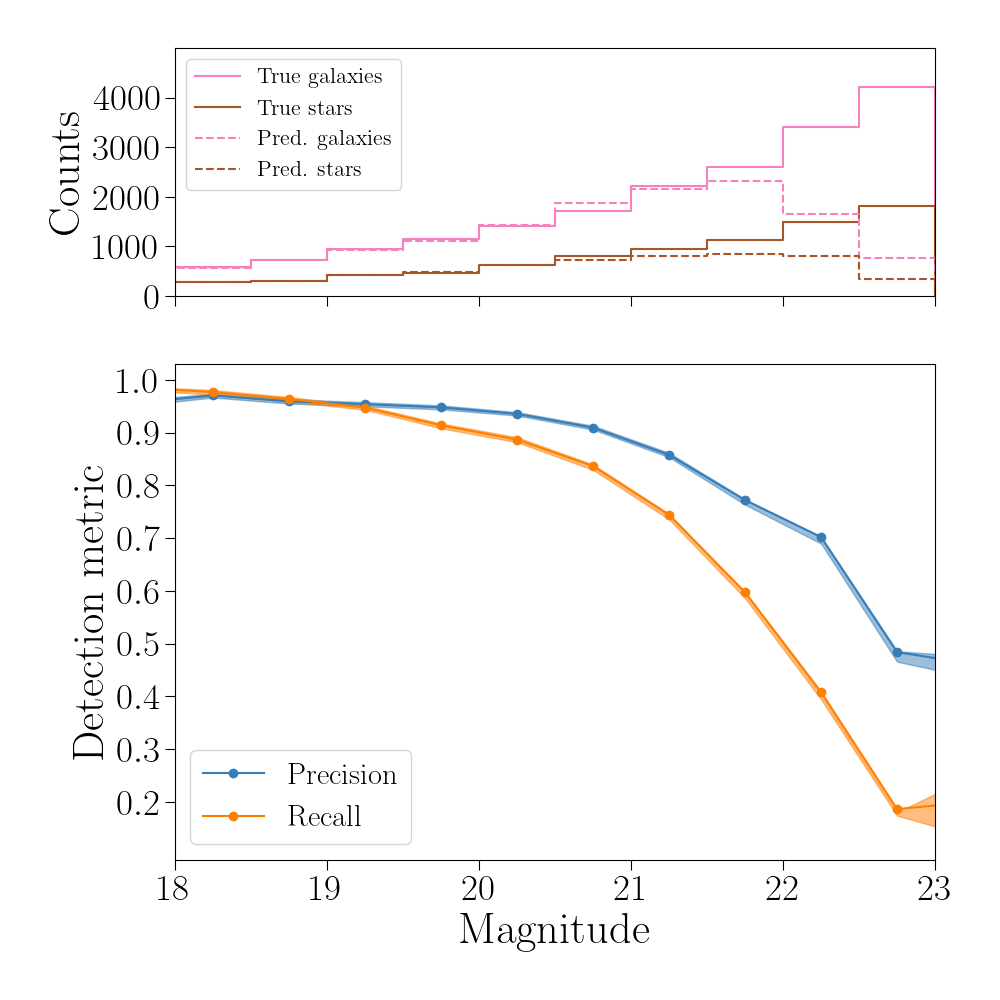
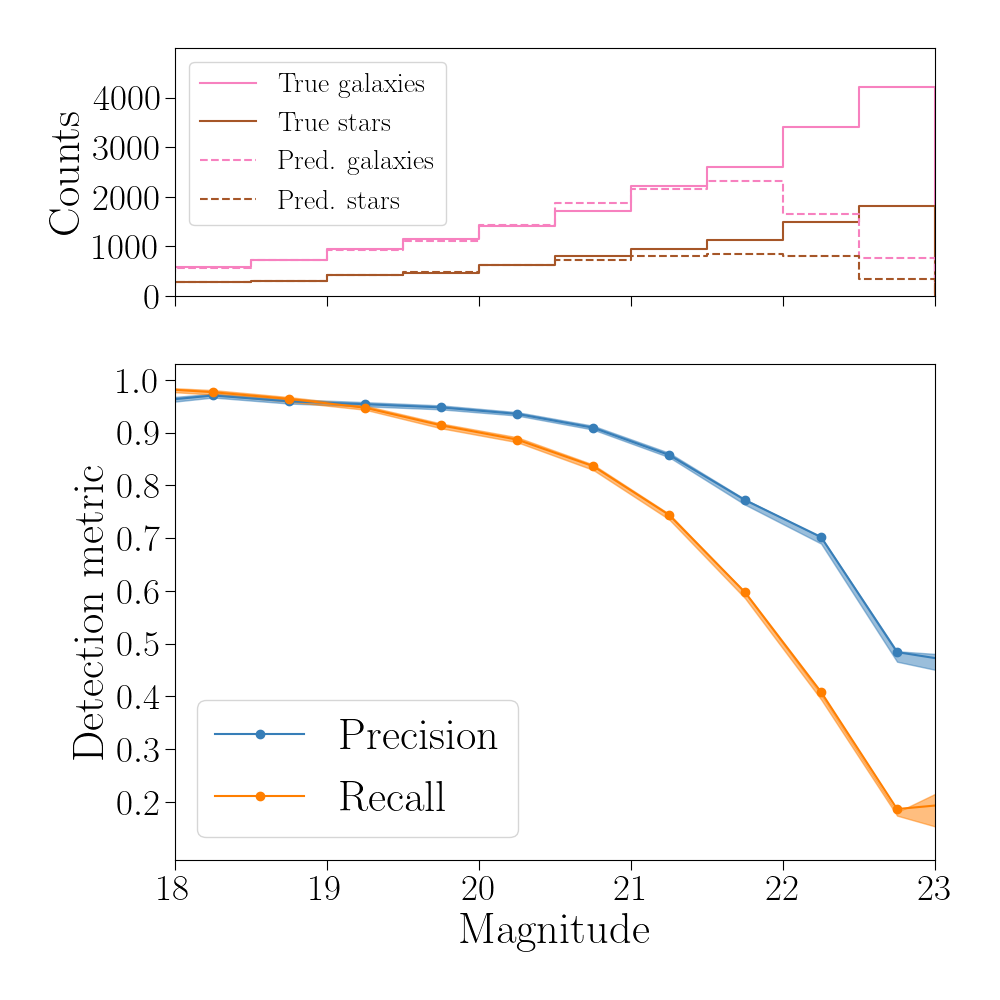
add histogram for galaxy residual figure

diff --git a/case_studies/galsim_galaxies/get_figures.py b/case_studies/galsim_galaxies/get_figures.py
@@ -64,7 +64,7 @@ def _make_pr_figure(
     ax2.plot(bins, recall, "-o", color=c2, label=r"\rm Recall", markersize=6)
     ax2.fill_between(bins, recall1, recall2, color=c2, alpha=0.5)
 
-    ax2.legend(loc="lower left", prop={"size": 22})
+    ax2.legend(loc="lower left")
     ax2.set_xlabel(rf"\rm {xlabel}")
     ax2.set_ylabel(r"\rm Detection metric")
     ax2.set_yticks(yticks)
@@ -86,7 +86,7 @@ def _make_pr_figure(
     ax1.set_ylim((0, np.round(ymax, -ordmag) + 10**ordmag))
     ax1.set_yticks(yticks)
     ax1.set_ylabel(r"\rm Counts")
-    ax1.legend(loc="best", prop={"size": 16})
+    ax1.legend(loc="best", prop={"size": 20})
     plt.subplots_adjust(hspace=0)
     return fig
 
@@ -322,7 +322,7 @@ class BlendResidualFigure(BlissFigure):
 
         # compute detection metrics (mag)
         print("INFO: Computing detection metrics in magnitude bins")
-        mag_bins2 = torch.arange(18, 25, 0.5)
+        mag_bins2 = torch.arange(18.0, 23.5, 0.5)
         mag_bins1 = mag_bins2 - 0.5
         mag_bins = torch.column_stack((mag_bins1, mag_bins2))
         bin_metrics = compute_bin_metrics(truth, est, "mags", mag_bins)
@@ -485,6 +485,38 @@ class BlendDetectionFigure(BlendResidualFigure):
         return _make_pr_figure(mag_bins, data["detection"], "Magnitude", xlims=(18, 23))
 
 
+class BlendHistogramFigure(BlendResidualFigure):
+    @property
+    def rc_kwargs(self):
+        return {"fontsize": 32}
+
+    @property
+    def name(self) -> str:
+        return "blendsim_hists"
+
+    def create_figure(self, data) -> Figure:
+        snr = np.log10(data["residuals"]["snr"])
+        blendedness = data["residuals"]["blendedness"]
+
+        fig, (ax1, ax2) = plt.subplots(1, 2, figsize=(12, 6))
+
+        xticks = [0, 0.5, 1.0, 1.5, 2.0, 2.5, 3.0]
+        snr_bins = np.arange(0, 3.2, 0.2)
+        ax1.hist(snr, bins=snr_bins, histtype="step", log=True)
+        ax1.set_xlabel(r"$\log_{10} \rm SNR$")
+        ax1.set_ylabel(r"\rm Number of galaxies", size=24)
+        ax1.set_xticks(xticks)
+
+        xticks = [0, 0.2, 0.4, 0.6, 0.8, 1.0]
+        blendedness_bins = np.arange(0, 1.1, 0.1)
+        ax2.hist(blendedness, bins=blendedness_bins, histtype="step", log=True)
+        ax2.set_xlabel("$B$")
+        ax2.set_ylabel(r"\rm Number of galaxies", size=24)
+        ax2.set_xticks(xticks)
+
+        return fig
+
+
 def _load_models(cfg, device):
     # load models required for SDSS reconstructions.
 
@@ -575,6 +607,7 @@ def _make_blend_figures(cfg, encoder, decoder, overwrite: bool, bfig_kwargs: dic
 
     BlendResidualFigure(overwrite=overwrite, **bfig_kwargs)(blend_file, encoder, decoder)
     BlendDetectionFigure(overwrite=False, **bfig_kwargs)(blend_file, encoder, decoder)
+    BlendHistogramFigure(overwrite=False, **bfig_kwargs)(blend_file, encoder, decoder)
 
 
 @hydra.main(config_path="./config", config_name="config", version_base=None)
